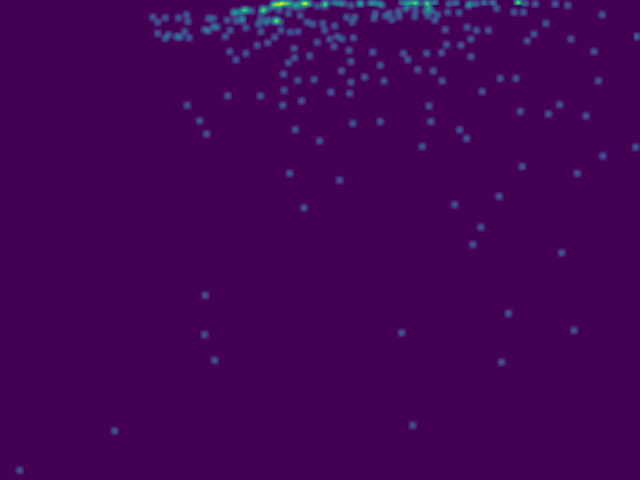
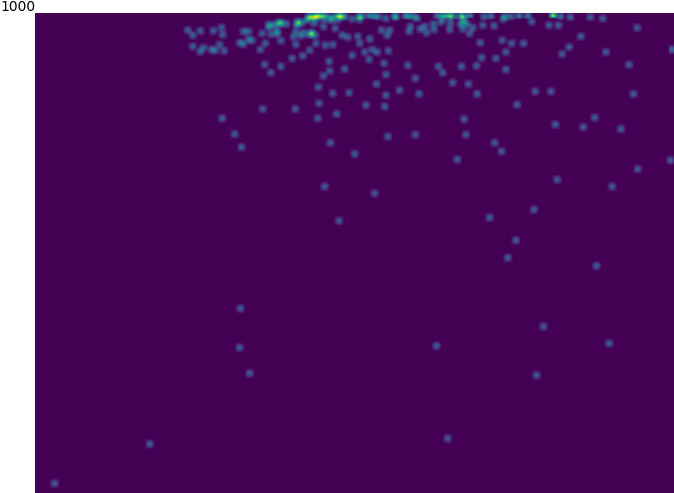
change h5 to png

diff --git a/h5_to_png.py b/h5_to_png.py
@@ -3,6 +3,7 @@ import numpy as np
 import h5py
 import argparse
 import matplotlib.pyplot as plt
+from PIL import Image, ImageFont, ImageDraw
 
 def get_args_parser():
     # define the argparse for the script
@@ -20,7 +21,8 @@ def main(args):
     ax = plt.Axes(fig, [0., 0., 1., 1.])
     ax.set_axis_off()
     fig.add_axes(ax)
-    ax.imshow(data, aspect='auto')
+    ax.imshow(data, aspect='auto', cmap=plt.cm.viridis)
+    ax.text(0, 0, '1000', horizontalalignment='right', verticalalignment='bottom')
     #plt.imshow(data)
     file = 'heatmap.png'
     fig.savefig(args.target_path + file, bbox_inches='tight', pad_inches=0)

diff --git a/main.py b/main.py
@@ -114,7 +114,6 @@ def main(args):
         print('    ' + '-' * 20)
         print('    [mae %.3f mse %.3f]' % (mae, mse))
         print(pred_cnts)
-        print(pred_maps)
         print('    ' + '-' * 20)
         print('=' * 50)
 
